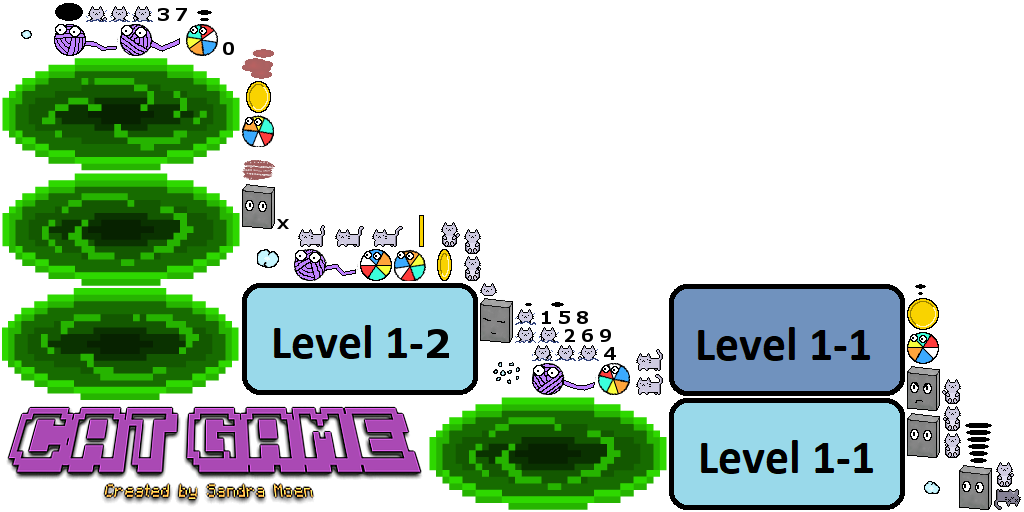
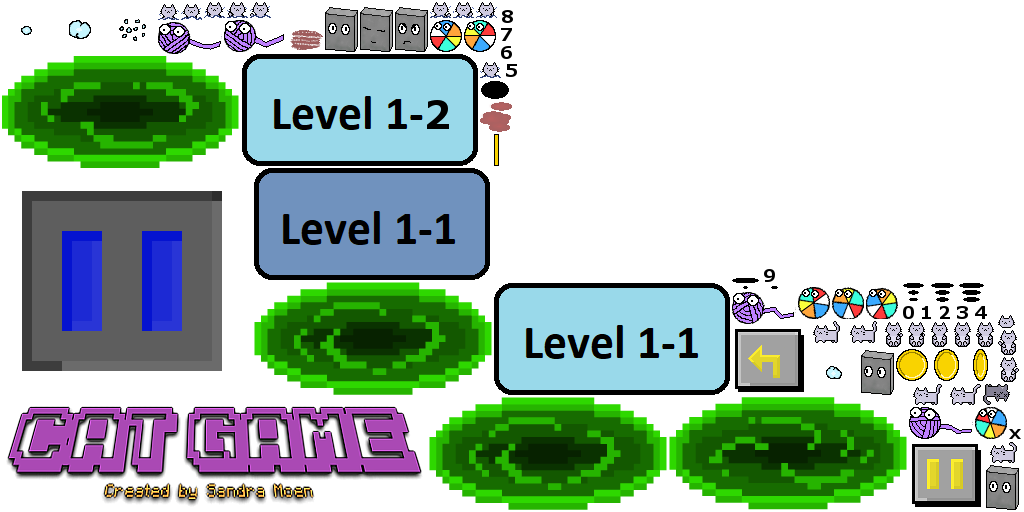
HUD buttons WIP

diff --git a/core/src/com/sandra/game/utils/HUD.java b/core/src/com/sandra/game/utils/HUD.java
@@ -1,7 +1,17 @@
 package com.sandra.game.utils;
 
+import com.badlogic.gdx.Gdx;
+import com.badlogic.gdx.graphics.Color;
+import com.badlogic.gdx.graphics.OrthographicCamera;
 import com.badlogic.gdx.graphics.g2d.Sprite;
 import com.badlogic.gdx.graphics.g2d.SpriteBatch;
+import com.badlogic.gdx.scenes.scene2d.Stage;
+import com.badlogic.gdx.scenes.scene2d.ui.Button;
+import com.badlogic.gdx.scenes.scene2d.ui.Button.ButtonStyle;
+import com.badlogic.gdx.scenes.scene2d.utils.TextureRegionDrawable;
+import com.badlogic.gdx.utils.viewport.StretchViewport;
+import com.sandra.game.handlers.ButtonListener;
+import com.sandra.game.screens.Level;
 
 public class HUD {    
     private Sprite coin_image;
@@ -9,11 +19,22 @@ public class HUD {
 
     private Sprite[] numbers;
     private Sprite cathead_ones, cathead_tens;
-    private Sprite coins_ones, coins_tens;
-    private int num_coins, num_cats;
+    private Sprite coins_ones, coins_tens;    
     private Sprite x_cat, x_coins;
+    private int num_coins, num_cats;
 
-    public HUD() {
+    private Button btn_pause;
+    private Button btn_return;
+    private ButtonListener btn_pause_listener;
+    private ButtonListener btn_return_listener;
+    private Stage stage;
+
+    private OrthographicCamera camera;
+    private Level level;
+
+    public HUD(OrthographicCamera camera, Level level) {
+        this.camera = camera;
+        this.level = level;
         num_cats = num_coins = 0;
 
         coin_image = new Sprite(Assets.instance.coinAssets.coin);
@@ -60,6 +81,29 @@ public class HUD {
         coins_tens = new Sprite();
         coins_tens.set(numbers[1]);
         coins_tens.setSize(25 / Constants.PPM, 25 / Constants.PPM);
+
+        stage = new Stage(new StretchViewport(Constants.GAME_WIDTH, Constants.GAME_HEIGHT, camera));
+        Gdx.input.setInputProcessor(stage);
+
+        ButtonStyle buttonStyle = new ButtonStyle();
+        buttonStyle.up = new TextureRegionDrawable(Assets.instance.hudAssets.btn_pause);
+        btn_pause = new Button(buttonStyle);
+        btn_pause_listener = new ButtonListener();
+        btn_pause.addListener(btn_pause_listener);
+        btn_pause.setSize(40 / Constants.PPM, 40 / Constants.PPM);
+        btn_pause.setPosition(7.5f, 5.45f);
+
+        buttonStyle = new ButtonStyle();
+        buttonStyle.up = new TextureRegionDrawable(Assets.instance.hudAssets.btn_return);
+        btn_return = new Button(buttonStyle);
+        btn_return_listener = new ButtonListener();
+        btn_return.addListener(btn_return_listener);
+        btn_return.setSize(40 / Constants.PPM, 40 / Constants.PPM);
+        btn_return.setPosition(7.1f, 5.45f);
+        
+        stage.addActor(btn_pause);
+        stage.addActor(btn_return);
+        stage.setDebugAll(true);
     }        
 
     public void render(SpriteBatch batch) {
@@ -73,12 +117,41 @@ public class HUD {
 
         if (num_cats >= 10) cathead_tens.draw(batch);
         if (num_coins >= 10) coins_tens.draw(batch);
+
+        btn_pause.draw(batch, 1);
+        btn_return.draw(batch, 1);
+        //stage.draw();
     }
 
     public void update(float delta, int numCats, int numCoins) {
+        update_score(numCats, numCoins);
+        listen_on_buttons(delta);
+    }
+    
+    public void dispose() { stage.dispose(); }
+    
+    private void listen_on_buttons(float delta) {
+        stage.act(delta);
+
+        if (btn_pause_listener.getTouched()) {
+            level.set_pause(btn_pause_listener.getTouched());
+            btn_pause.setColor(Color.BLUE);
+        } else {
+            level.set_pause(false);
+            btn_pause.setColor(Color.RED);
+        }
+
+        if(btn_return_listener.getTouched()) {
+            //dispose();
+            System.out.println("btn_return_listener");
+            //((Game) Gdx.app.getApplicationListener()).setScreen(new Splash_how_to_play(game));
+        }
+    }
+
+    private void update_score(int numCats, int numCoins) {
         this.num_cats = numCats;
         this.num_coins = numCoins;
-
+    
         if (num_coins < 10) {
             coins_ones.set(numbers[numCoins%10]);
             coins_ones.setPosition(4.35f, 5.6f);
@@ -88,7 +161,7 @@ public class HUD {
             coins_tens.set(numbers[(numCoins %100) / 10]);
             coins_tens.setPosition(4.35f, 5.6f);
         }
-
+    
         if (num_cats < 10) {
             cathead_ones.set(numbers[num_cats%10]);
             cathead_ones.setPosition(3.35f, 5.6f);
@@ -99,6 +172,4 @@ public class HUD {
             cathead_tens.setPosition(3.35f, 5.6f);
         }
     }
-
-    public void dispose() {}
 }

diff --git a/core/src/com/sandra/game/screens/Menu.java b/core/src/com/sandra/game/screens/Menu.java
@@ -15,7 +15,7 @@ import com.badlogic.gdx.scenes.scene2d.ui.Button.ButtonStyle;
 import com.badlogic.gdx.scenes.scene2d.utils.TextureRegionDrawable;
 import com.badlogic.gdx.utils.viewport.StretchViewport;
 import com.sandra.game.Cat_game;
-import com.sandra.game.handlers.MenuInputListener;
+import com.sandra.game.handlers.ButtonListener;
 import com.sandra.game.utils.Assets;
 import com.sandra.game.utils.Constants;
 import com.sandra.game.screens.Level_1_2;
@@ -32,10 +32,10 @@ public class Menu implements Screen {
     private TextureRegion menu_title_tex;
 
     private Button level_1_1_btn;
-    private MenuInputListener level_1_1_btn_listener;
+    private ButtonListener level_1_1_btn_listener;
 
     private Button level_1_2_btn;
-    private MenuInputListener level_1_2_btn_listener;
+    private ButtonListener level_1_2_btn_listener;
 
     public Menu(Cat_game game) { this.game = game; }
 
@@ -60,13 +60,13 @@ public class Menu implements Screen {
         ButtonStyle buttonStyle = new ButtonStyle();
         buttonStyle.up = new TextureRegionDrawable(Assets.instance.menuAssets.button_1_1);
         level_1_1_btn = new Button(buttonStyle);
-        level_1_1_btn_listener = new MenuInputListener();
+        level_1_1_btn_listener = new ButtonListener();
         level_1_1_btn.addListener(level_1_1_btn_listener);
         
         buttonStyle = new ButtonStyle();
         buttonStyle.up = new TextureRegionDrawable(Assets.instance.menuAssets.button_1_2);
         level_1_2_btn = new Button(buttonStyle);
-        level_1_2_btn_listener = new MenuInputListener();
+        level_1_2_btn_listener = new ButtonListener();
         level_1_2_btn.addListener(level_1_2_btn_listener);
 
         // Table
@@ -117,7 +117,8 @@ public class Menu implements Screen {
             dispose();
             System.out.println("level_1_1_btn_listener");
             ((Game) Gdx.app.getApplicationListener()).setScreen(new Splash_how_to_play(game));
-		}
+        }
+        
 		if(level_1_2_btn_listener.getTouched()) {
             dispose();
             System.out.println("level_1_2_btn_listener");

diff --git a/core/src/com/sandra/game/screens/Level.java b/core/src/com/sandra/game/screens/Level.java
@@ -142,9 +142,12 @@ public abstract class Level implements Screen {
         controls = new Controls(entities);
 
         // HUD
-        hud = new HUD();
+        hud = new HUD(camera, this);
         coinScore = cat1Score = 0;
     }
+
+    public void set_pause(boolean pause) { this.pause = pause; }
+    public boolean get_pause() { return pause; }
 
     private void update_entities(float delta) {
         for (Entity portal : portals) {
@@ -204,11 +207,13 @@ public abstract class Level implements Screen {
     }
 
     private void update(float delta) {
-        camera.update();
-        b2d_world.step(Constants.B2D_TIMESTEP, Constants.B2D_VELOCITY_ITERATIONS, Constants.B2D_POSITION_ITERATIONS);
-        controls.update(delta);
-        game.batch.setProjectionMatrix(camera.combined);
-        update_entities(delta);
+        if (!pause) {
+            camera.update();
+            b2d_world.step(Constants.B2D_TIMESTEP, Constants.B2D_VELOCITY_ITERATIONS, Constants.B2D_POSITION_ITERATIONS);
+            controls.update(delta);
+            game.batch.setProjectionMatrix(camera.combined);
+            update_entities(delta);
+        }
         hud.update(delta, cat1Score, coinScore);
     }
 
@@ -216,8 +221,8 @@ public abstract class Level implements Screen {
     public void render(float delta) {
         Gdx.gl.glClearColor(0, 0, 0, 1); // black
         Gdx.gl.glClear(GL20.GL_COLOR_BUFFER_BIT);
-
-        if (!pause) update(delta);
+         
+        update(delta);
 
         Gdx.gl.glEnable(GL20.GL_BLEND);
         Gdx.gl.glBlendFunc(GL20.GL_SRC_ALPHA, GL20.GL_ONE_MINUS_SRC_ALPHA);

diff --git a/core/src/com/sandra/game/utils/Assets.java b/core/src/com/sandra/game/utils/Assets.java
@@ -70,6 +70,9 @@ public class Assets implements Disposable, AssetErrorListener {
         public final TextureRegion _7;
         public final TextureRegion _8;
         public final TextureRegion _9;
+        public final TextureRegion btn_pause;
+        public final TextureRegion btn_pause_pressed;
+        public final TextureRegion btn_return;
 
         public HUDAssets(TextureAtlas atlas) {
             _x = new TextureRegion(atlas.findRegion(Constants._x));
@@ -83,6 +86,10 @@ public class Assets implements Disposable, AssetErrorListener {
             _7 = new TextureRegion(atlas.findRegion(Constants._7));
             _8 = new TextureRegion(atlas.findRegion(Constants._8));
             _9 = new TextureRegion(atlas.findRegion(Constants._9));
+            
+            btn_pause = new TextureRegion(atlas.findRegion(Constants.BTN_PAUSE));
+            btn_pause_pressed = new TextureRegion(atlas.findRegion(Constants.BTN_PAUSE_PRESSED));
+            btn_return = new TextureRegion(atlas.findRegion(Constants.BTN_RETURN));
         }
     }
 

diff --git a/core/src/com/sandra/game/handlers/ButtonListener.java b/core/src/com/sandra/game/handlers/ButtonListener.java
@@ -5,7 +5,7 @@ import com.badlogic.gdx.scenes.scene2d.InputEvent;
 import com.badlogic.gdx.scenes.scene2d.InputListener;
 
 
-public class MenuInputListener extends InputListener {
+public class ButtonListener extends InputListener {
 
 	private boolean enter;
 	private boolean touched;
@@ -14,6 +14,11 @@ public class MenuInputListener extends InputListener {
 		// System.out.println("touchDown");
 		touched = true;
 		return true;
+	}
+
+	public void touchUp (InputEvent event, float x, float y, int pointer, int button) {
+		// System.out.println("touchUp");
+		touched = false;
 	}
 	
 	public void enter(InputEvent event, float x, float y, int pointer, Actor fromActor) {

diff --git a/core/src/com/sandra/game/utils/Constants.java b/core/src/com/sandra/game/utils/Constants.java
@@ -172,4 +172,8 @@ public class Constants {
     public static String _7 = "7";
     public static String _8 = "8";
     public static String _9 = "9";
+    
+    public static String BTN_PAUSE = "btn_pause";
+    public static String BTN_PAUSE_PRESSED = "btn_pause_pressed";
+    public static String BTN_RETURN = "btn_return";
 }
